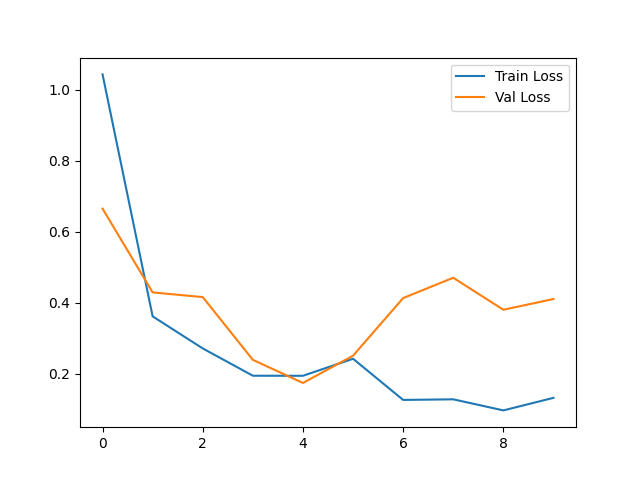
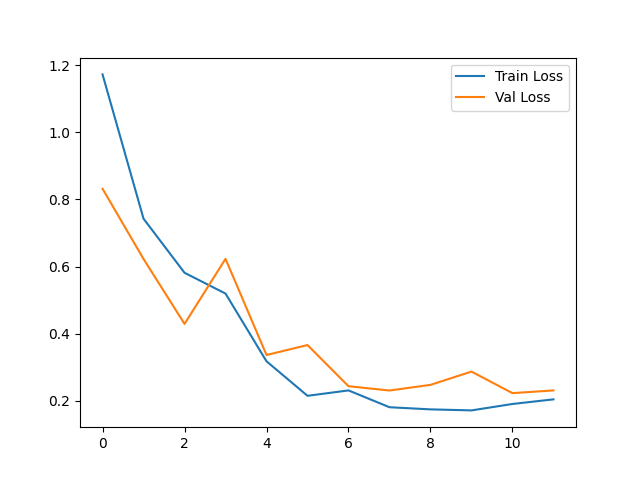
Added accuracy logging and improved model

diff --git a/src/train.py b/src/train.py
@@ -7,6 +7,7 @@ import matplotlib.pyplot as plt
 
 BASE_DIR = os.path.dirname(os.path.dirname(os.path.abspath(__file__)))
 
+os.makedirs(os.path.join(BASE_DIR, "outputs/logs"), exist_ok=True)
 log_path = os.path.join(BASE_DIR, "outputs/logs/train.log")
 
 logging.basicConfig(
@@ -60,7 +61,10 @@ data_augmentation = tf.keras.Sequential([
 ])
 
 model = keras.Sequential([
-    keras.layers.Conv2D(64, (3, 3), activation = 'relu', input_shape = (256, 256, 3)),
+    keras.layers.Input(shape = (256, 256, 3)),
+    data_augmentation,
+
+    keras.layers.Conv2D(64, (3, 3), activation = 'relu'),
     keras.layers.MaxPooling2D(2,2),
 
     keras.layers.Conv2D(128, (3, 3), activation = 'relu'),
@@ -103,6 +107,17 @@ history = model.fit(
     epochs = 50,
     callbacks=[early_stop, checkpoint]
 )
+
+train_accuracy = history.history["accuracy"]
+validation_accuracy = history.history["val_accuracy"]
+
+start_epoch = max(0, len(train_accuracy)-5)
+
+for i in range(start_epoch, len(train_accuracy)):
+    logging.info(
+        f"Epoch {i + 1} - Train Acc: {train_accuracy[i]:.4f}, "
+        f"Val Acc: {validation_accuracy[i]:.4f}"
+    )
 
 test_loss, test_acc = model.evaluate(test_ds)
 print("Test Loss:", test_loss)
